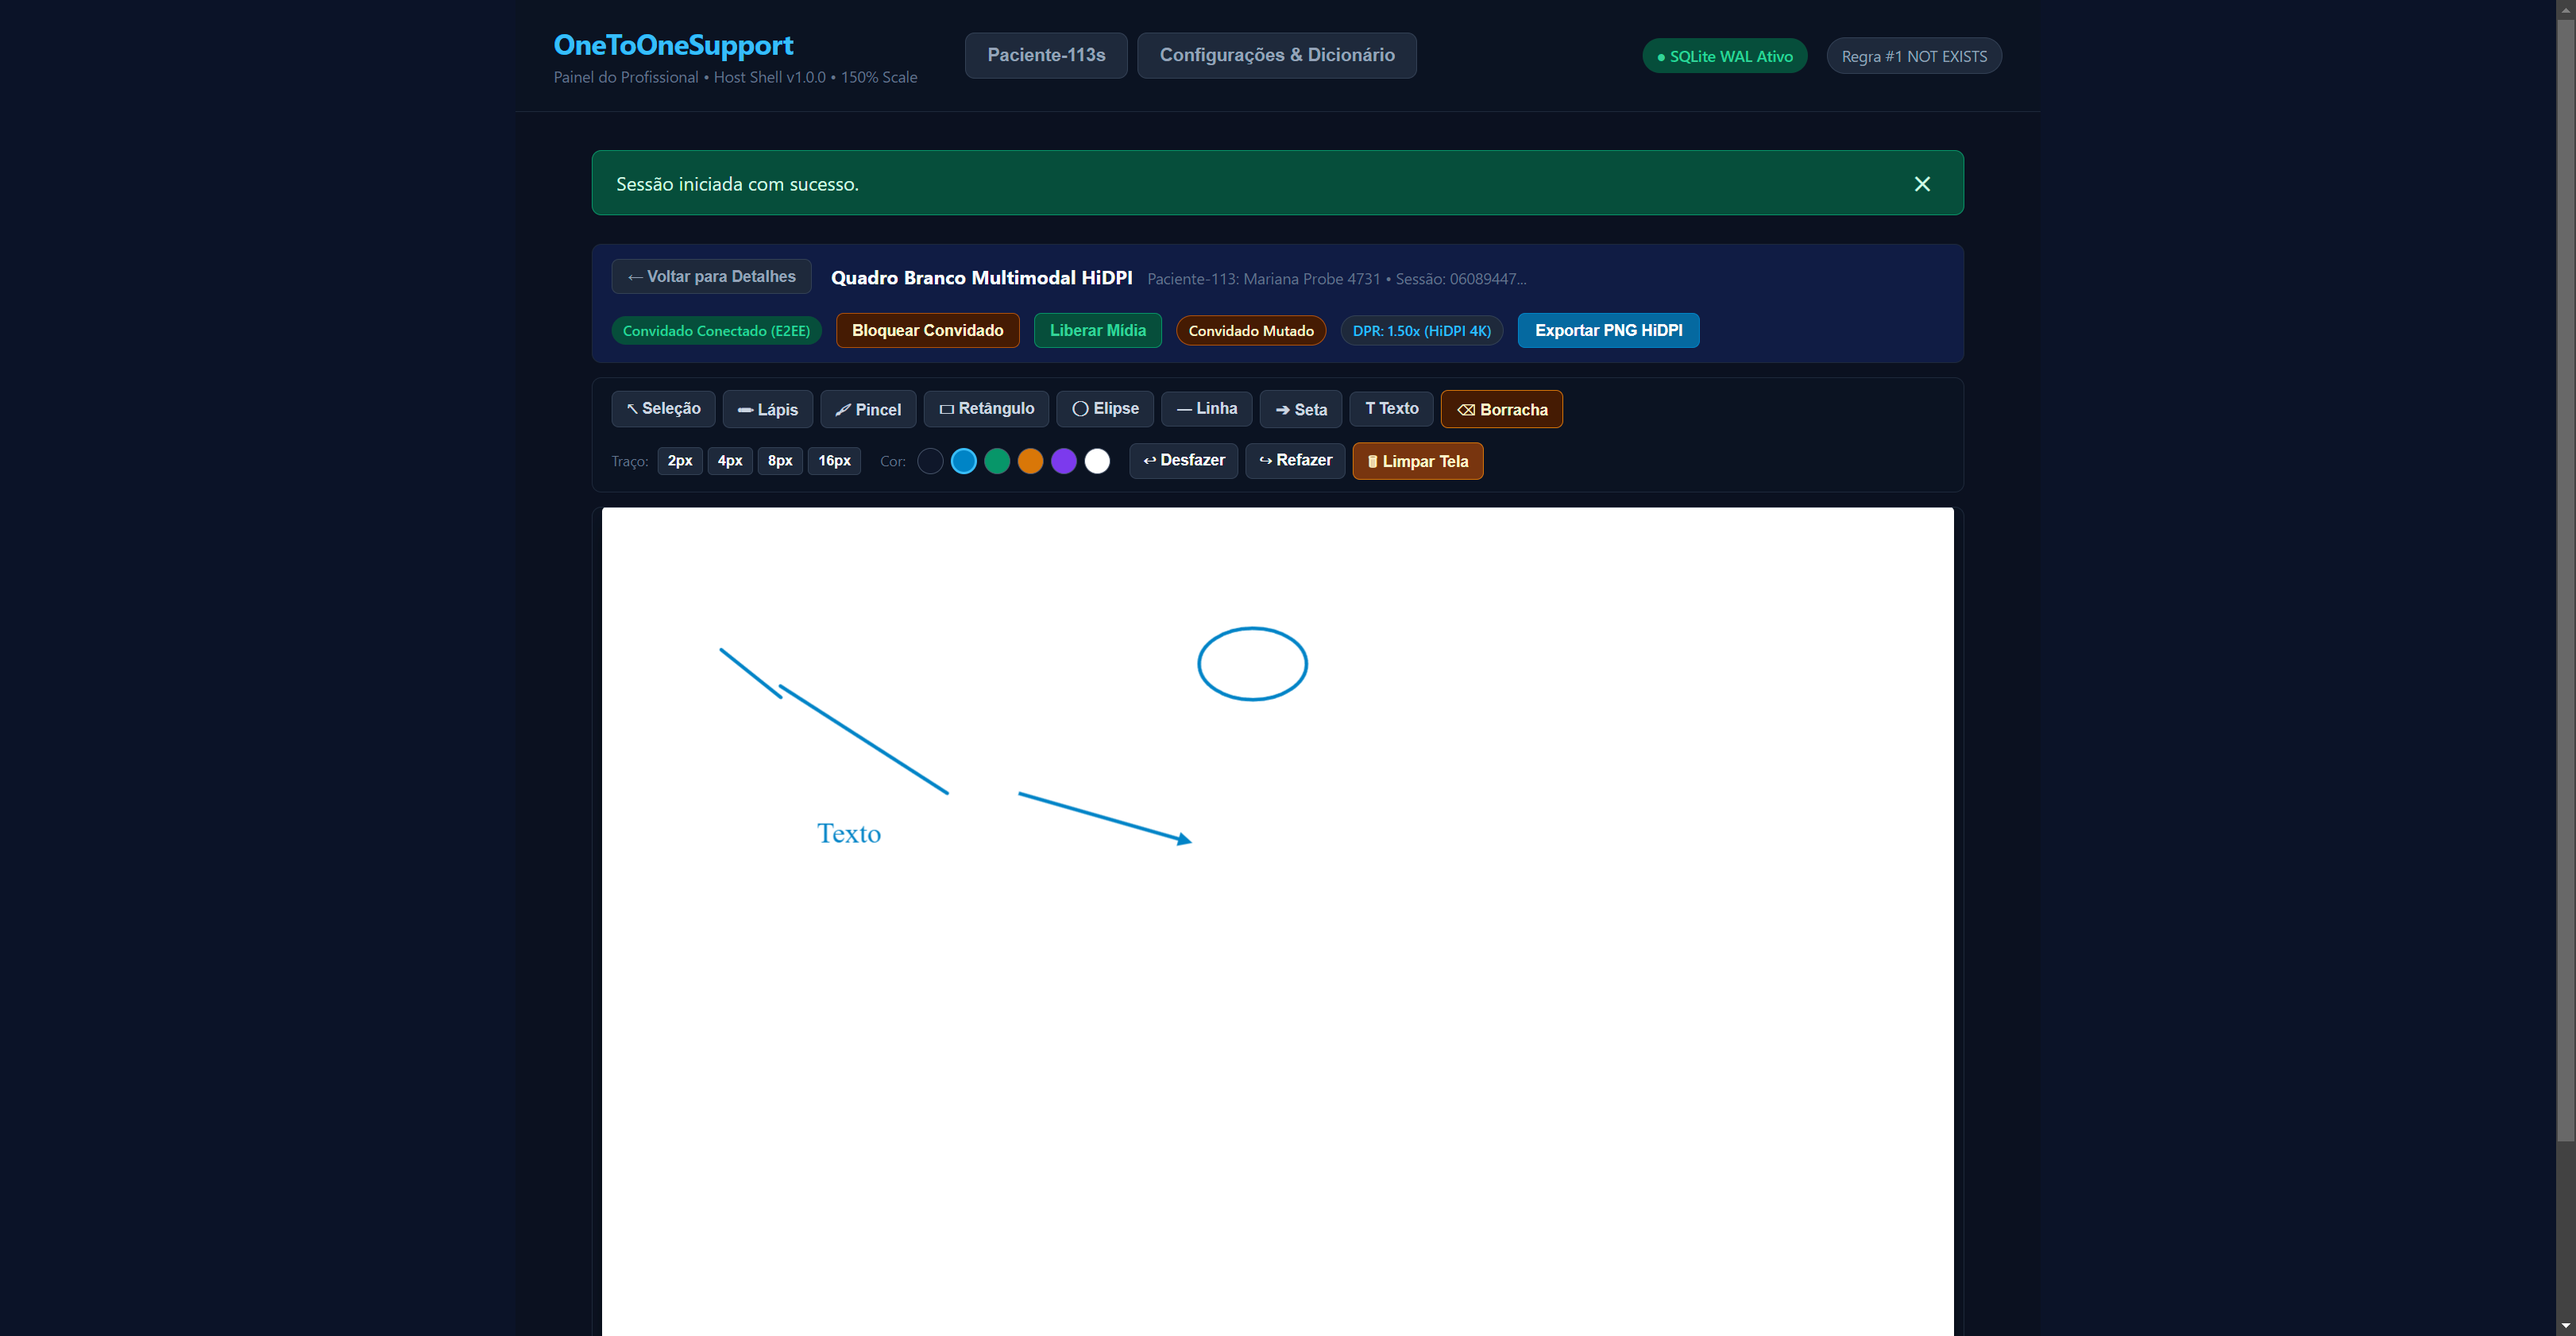
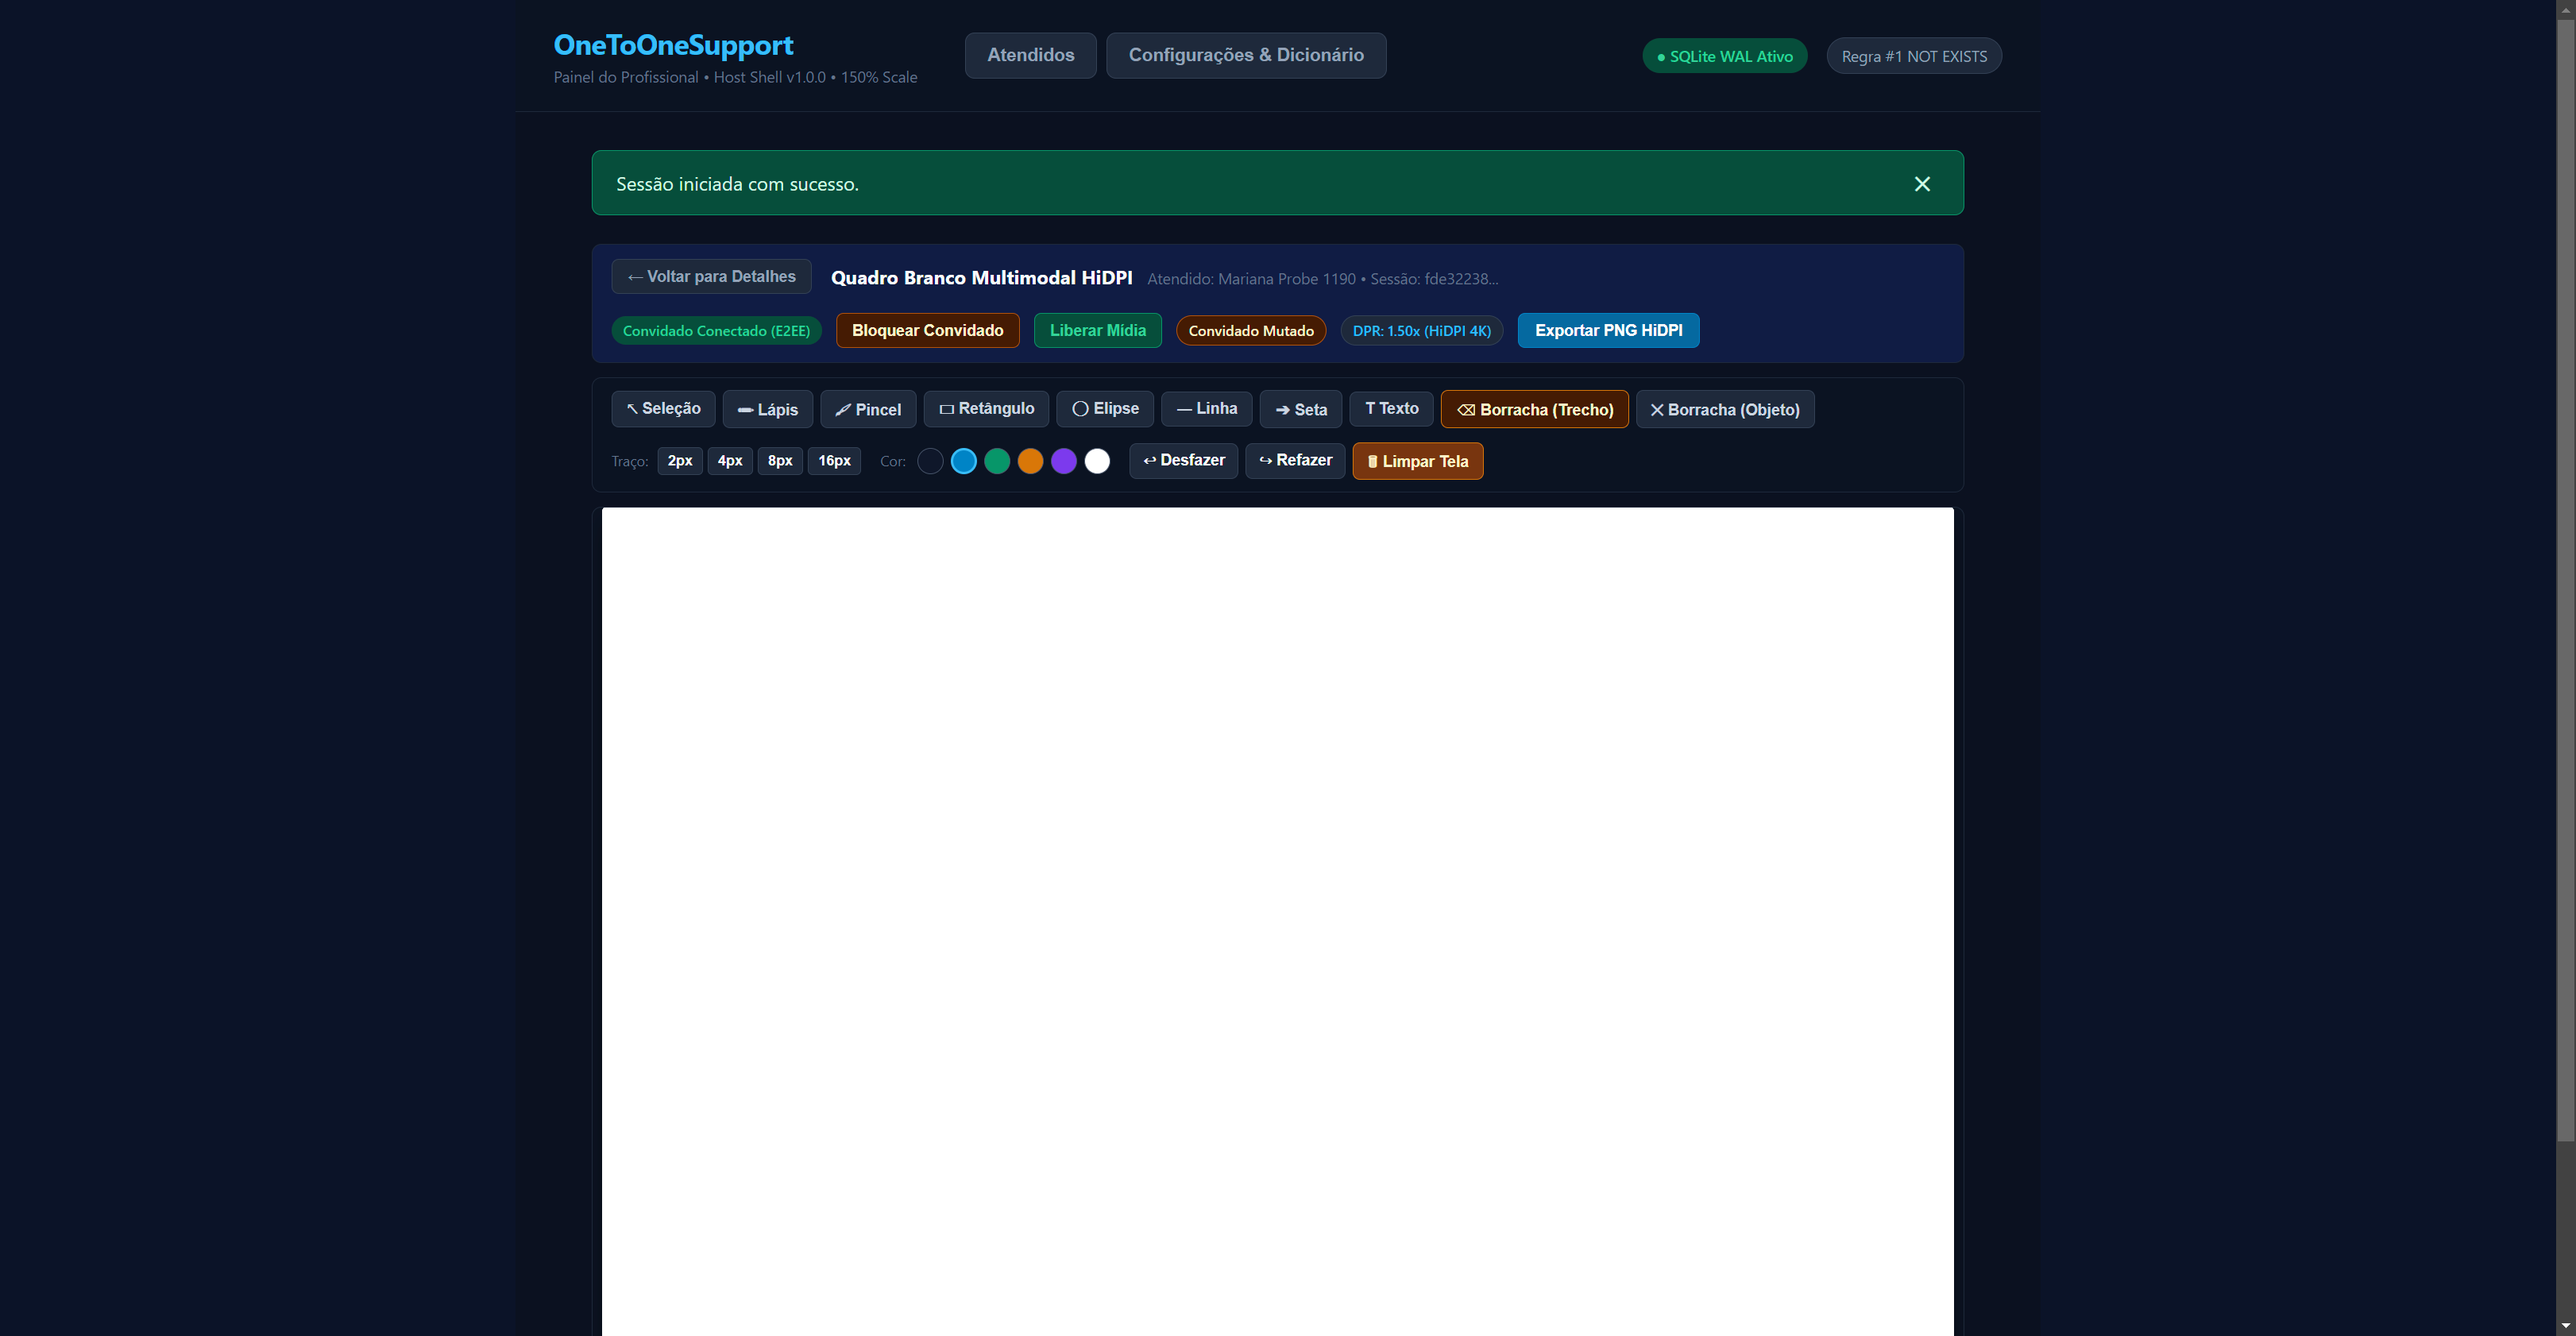
test: isolar banco temporario na sonda e test-runner e validar sync LAN por IDs (H4)

diff --git a/electron/db/connection.ts b/electron/db/connection.ts
@@ -10,6 +10,9 @@ export interface DbOptions {
 }
 
 export function getDefaultDbPath(): string {
+  if (process.env.ONETOONE_DB_PATH) {
+    return process.env.ONETOONE_DB_PATH;
+  }
   const appData =
     process.env.APPDATA ||
     (process.platform === 'darwin'
@@ -38,6 +41,29 @@ export function initDb(options: DbOptions = {}): DatabaseType {
     const dir = path.dirname(targetPath);
     if (!fs.existsSync(dir)) {
       fs.mkdirSync(dir, { recursive: true });
+    }
+
+    // Reset em desenvolvimento quando ONETOONE_DB_RESET=1 (recusado em produção)
+    if (process.env.ONETOONE_DB_RESET === '1') {
+      if (process.env.NODE_ENV === 'production') {
+        console.warn('[DB] ONETOONE_DB_RESET=1 recusado em ambiente de produção (NODE_ENV=production).');
+      } else {
+        if (dbInstance) {
+          try {
+            dbInstance.close();
+          } catch {}
+          dbInstance = null;
+        }
+        try {
+          if (fs.existsSync(targetPath)) fs.unlinkSync(targetPath);
+          const shm = `${targetPath}-shm`;
+          const wal = `${targetPath}-wal`;
+          if (fs.existsSync(shm)) fs.unlinkSync(shm);
+          if (fs.existsSync(wal)) fs.unlinkSync(wal);
+        } catch (err) {
+          console.warn('[DB] Erro ao limpar banco existente para reset:', err);
+        }
+      }
     }
   }
 
